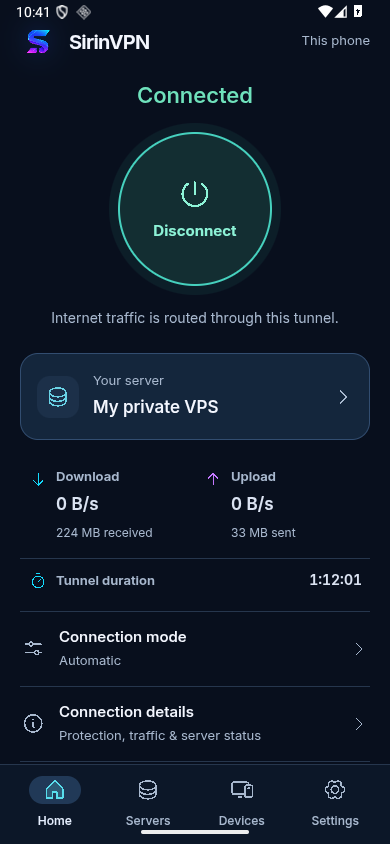
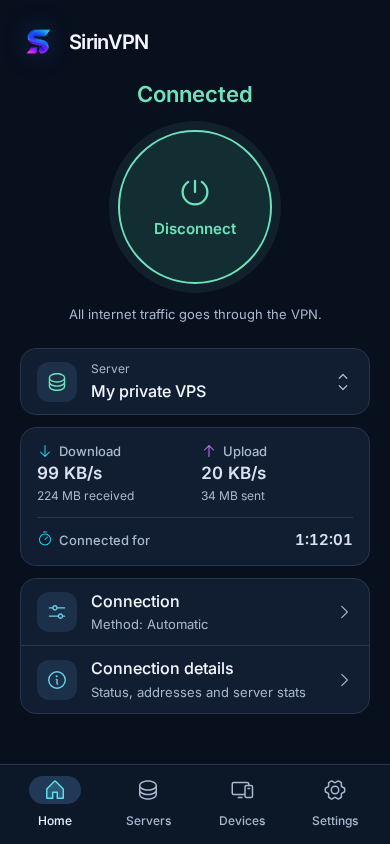
Update the README for the redesign and keep SSH fields still
The saved-login notice took a line above the SSH fields and collapsed when the
lookup ended, moving every field up 47px. It is now a chip pinned over the top
of the dimmed fields, so nothing moves and dialogs with a quick lookup keep no
blank line.

The README describes the redesigned interface: new screenshots, current terms,
setup and invitation steps that name the actual buttons, and a map of pages and
Settings sections.

diff --git a/apps/desktop/src/styles/dialogs.css b/apps/desktop/src/styles/dialogs.css
@@ -346,13 +346,29 @@
 }
 
 .ssh-login-fields {
+  position: relative;
   display: grid;
   gap: 16px;
   min-width: 0;
 }
 .ssh-login-fields .field-grid { margin: 0; }
-.ssh-login-status { min-height: 1.5em; margin: 0; }
-.ssh-login-status:empty { display: none; }
+.ssh-login-fields > .ssh-login-status {
+  position: absolute;
+  inset: 0 0 auto;
+  z-index: 1;
+  width: fit-content;
+  max-width: 100%;
+  margin: 0 auto;
+  text-align: center;
+  pointer-events: none;
+}
+.ssh-login-fields > .ssh-login-status:not(:empty) {
+  padding: 6px 14px;
+  border: 1px solid var(--line-strong);
+  border-radius: 999px;
+  background: var(--surface-2);
+}
+.ssh-login-status:not(:empty) ~ .ssh-login-content { opacity: 0.45; }
 .ssh-login-content {
   display: grid;
   gap: 16px;

diff --git a/README.md b/README.md
@@ -24,12 +24,12 @@ published binary releases or AUR packages yet.
 
 ## A look at the app
 
-<img src="docs/images/desktop.png" alt="SirinVPN desktop: connection controls, device traffic, and VPS metrics" width="960" />
+<img src="docs/images/desktop.png" alt="SirinVPN desktop Home: connect button, connection method and kill switch status, this device's traffic, and server stats" width="960" />
 
 <details>
 <summary>Android interface</summary>
 <p>
-  <img src="docs/images/android.png" alt="SirinVPN Android: connection button, selected server, live traffic, and bottom navigation" width="320" />
+  <img src="docs/images/android.png" alt="SirinVPN Android Home: connect button, server picker, live traffic, connection settings, and bottom navigation" width="320" />
 </p>
 </details>
 
@@ -38,9 +38,11 @@ Screenshots use fictional profiles and example data.
 ## What it does
 
 - **Set up your own server.** Provision a Debian 13 VPS over SSH, verify its host
-  fingerprint, and manage SirinVPN-owned services and firewall rules.
-- **Choose a connection transport.** Direct WireGuard UDP, obfuscated UDP, TCP
-  fallback, and pinned TLS/HTTPS transport, with configurable endpoints and
+  fingerprint, review its network before installation, and manage SirinVPN-owned
+  services and firewall rules.
+- **Choose a connection method.** Direct UDP (standard WireGuard), Obfuscated UDP,
+  TLS fallback with a pinned certificate, and TCP fallback. Pick one yourself or let
+  SirinVPN choose for your network conditions, with configurable endpoints and
   bounded automatic fallback.
 - **Manage people and devices.** Owner, Admin, and Member roles; signed invitations
   and QR enrollment; device revocation, access limits, and delegated permissions.
@@ -50,11 +52,11 @@ Screenshots use fictional profiles and example data.
 - **Keep the VPN independent of the interface.** Native services own the tunnel.
   Android includes notification controls, a Quick Settings tile, and integration
   with Android's Always-on VPN and lockdown settings.
-- **See current measurements.** Download/upload rates, tunnel duration, VPS
+- **See current measurements.** Download and upload rates, connection time, server
   resource use, private-tunnel quality, and MTU measurements without an activity
   timeline or stored traffic history.
 - **Recover and maintain access.** Encrypted device and VPS backups, recovery
-  packages, key rotation, server repair, and signed endpoint migration.
+  keys, key rotation, server repair, and signed endpoint migration.
 
 Availability and verification vary by platform. The
 [desktop feature map](docs/overhaul-feature-map.md) and
@@ -85,22 +87,36 @@ background status checks and Wi-Fi automation never display an unlock prompt.
 ## Getting started
 
 You need a VPS you administer, running Debian 13, with privileged SSH access and
-reachable ports for the transports you choose. SirinVPN does not provide servers
-or a VPN subscription.
+reachable ports for the connection methods you choose. SirinVPN does not provide
+servers or a VPN subscription.
 
 1. **Build the client** for your platform using the instructions below.
-2. **Set up your VPS** from the app. Verify the SSH fingerprint through your VPS
-   provider's console or another trusted channel before accepting it.
-3. **Connect**, accepting the operating system's VPN or administrator prompt when
-   needed. Run desktop clients as your ordinary user; the native service handles
-   privileged networking.
-4. **Add other devices** by creating an invitation on an authorized device, then
-   scanning its QR code or entering the invitation in another client.
+2. **Set up your VPS.** On the first screen choose **My VPS** (**Set up my VPS** on
+   Android), enter the server address and an SSH login, and select **Verify server**.
+   Compare the fingerprint with your hosting provider's web console or another
+   trusted channel before you select **Fingerprint matches**. After the network
+   check, select **Install SirinVPN**.
+3. **Connect** from Home, accepting the operating system's VPN or administrator
+   prompt when needed. Run desktop clients as your ordinary user; the native
+   service handles privileged networking.
+4. **Add other devices.** On a device that is already set up, open **Devices** and
+   select **Invite member**, or **Add device** in a member's menu. On the new
+   device, choose **Invitation** (**Use an invitation** on Android) and scan the QR
+   code or enter the code.
 
-On Android, notification permission enables app notifications. Trusting Wi-Fi
-requires Android's location permission and Location setting so the app can read
-the network identity; it does not request GPS coordinates. Marking a network
-trusted is a separate action.
+### Finding your way around
+
+| Page | What it holds |
+| --- | --- |
+| **Home** | Connect and disconnect, the active server, and this device's traffic and connection time. The desktop layout also shows live server stats; on Android, **Connection** opens the method, kill switch, and reconnect options, and **Connection details** shows status, addresses, and server stats. |
+| **Servers** | Your saved servers: search, switch, rename, mark favorites, add a server, and open maintenance. |
+| **Devices** | Members and devices on the selected server: invitations, roles, access policies, port forwarding, and revocation. |
+| **Settings** | **General** (Wi-Fi auto-connect, startup, notifications, app updates, credential storage), **Connection** (method, kill switch, reconnect), **Network** (app routing, DNS, ports), **Keys & recovery** (keys, backups, recovery keys), and **VPS maintenance** (health, diagnostics, updates; **Diagnostics** on Android). |
+
+On Android, notification permission enables app notifications. Wi-Fi auto-connect
+needs Android's location permission and Location setting so the app can identify
+the network; it does not request GPS coordinates. Trusting a network is a separate
+action (**Trust this Wi-Fi**).
 
 ## Build from source
 
